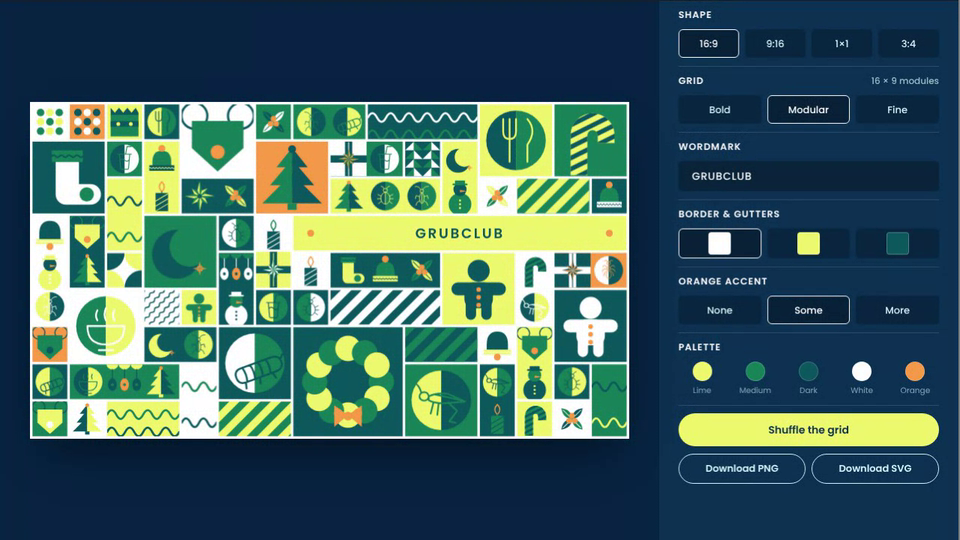
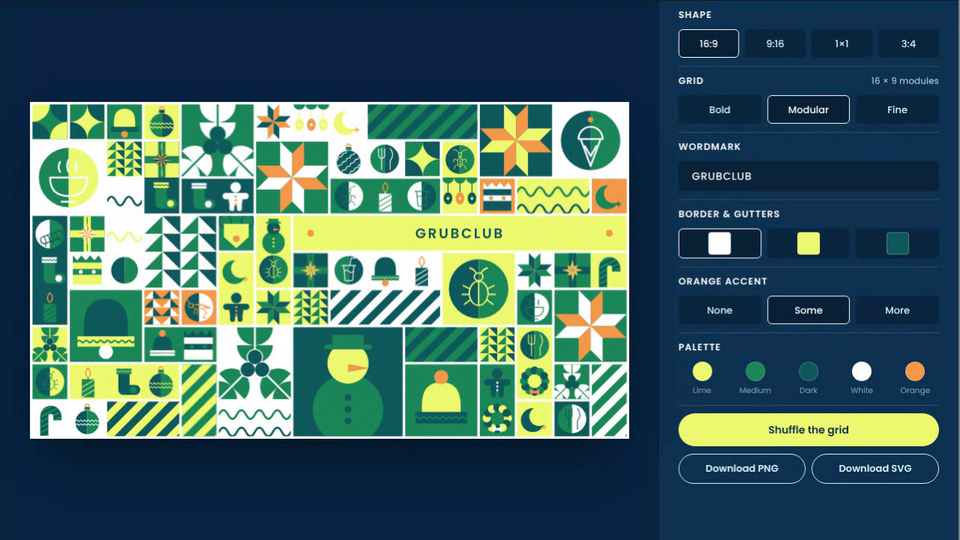
Grubclub Holiday Grid: exact pinwheel, triangle tree and holly (#193)
* Add Grubclub Holiday Grid app with homepage tile and clip

Claude-Session: https://claude.ai/code/session_01AHeBdyRCcuLFjvrTGpsW3f

* Grubclub Holiday Grid: use the Grubclub orange #F2994A

Claude-Session: https://claude.ai/code/session_01AHeBdyRCcuLFjvrTGpsW3f

* Grubclub Holiday Grid: illustrations closer to the references (two audit rounds)

Claude-Session: https://claude.ai/code/session_01AHeBdyRCcuLFjvrTGpsW3f

* Grubclub Holiday Grid: cup matched to reference, cone fixed, five new bug icons (cricket, grasshopper, mealworm, beetle, ant)

Claude-Session: https://claude.ai/code/session_01AHeBdyRCcuLFjvrTGpsW3f

* Grubclub Holiday Grid: exact pinwheel, triangle tree and holly blocks on square tiles, with contrast-checked colour sets

Claude-Session: https://claude.ai/code/session_01AHeBdyRCcuLFjvrTGpsW3f

* Grubclub Holiday Grid: re-record clip

Claude-Session: https://claude.ai/code/session_01AHeBdyRCcuLFjvrTGpsW3f

---------

Changed region(s): [[0.0312, 0.1778, 0.6562, 0.8296]]

diff --git a/grubclub-holiday/index.html b/grubclub-holiday/index.html
@@ -150,10 +150,8 @@ const ICON = {
   /* wrapped gift: full tile, ribbon cross, star bow */
   gift: (k) => `<rect x="0" y="0" width="100" height="100" fill="${k.a}"/><rect x="40" y="0" width="20" height="100" fill="${k.b}"/><rect x="0" y="40" width="100" height="20" fill="${k.b}"/>` +
     `<path d="M50 4 V38 M50 62 V96" stroke="${k.a}" stroke-width="2.4" stroke-linecap="round" fill="none"/>` + star8(50, 50, 30, k.bg, k.x, 1, .7),
-  star8: (k) => star8(50, 50, 48, k.a, k.b) + circ(50, 50, 7, k.bg),
   /* thick candy cane with diagonal stripes */
   cane: (k) => { const id = 'cm' + (uid++), d = 'M32 104 V42 A21 21 0 0 1 74 42 V54'; return `<mask id="${id}"><path d="${d}" stroke="#fff" stroke-width="26" fill="none"/></mask><path d="${d}" stroke="${k.a}" stroke-width="26" fill="none"/><g mask="url(#${id})">${Array.from({ length: 16 }, (_, i) => `<path d="M-10 ${i * 17 - 10} L110 ${i * 17 - 70}" stroke="${k.b}" stroke-width="7"/>`).join('')}</g>`; },
-  holly: (k) => leaf(50, 50, 48, 20, -45, k.a, k.bg) + leaf(50, 50, 48, 20, 45, k.b, k.bg) + leaf(50, 50, 48, 20, 135, k.a, k.bg) + leaf(50, 50, 48, 20, 225, k.b, k.bg) + circ(50, 40, 9, k.x) + circ(41, 56, 9, k.x) + circ(59, 56, 9, k.x),
   candle: (k) => `<rect x="30" y="42" width="40" height="58" fill="${k.a}"/><path d="M30 84 L70 60 M30 100 L70 76 M30 68 L70 44" stroke="${k.bg}" stroke-width="2.6" fill="none" clip-path="inset(0)"/>` +
     `<path d="M50 6 Q66 22 50 38 Q34 22 50 6Z" fill="none" stroke="${k.x}" stroke-width="3.6" stroke-linejoin="round"/>` + line('M50 38 V44', k.a, 3),
   stocking: (k) => `<path d="M30 22 H66 V60 H84 A16 16 0 0 1 84 92 H46 A16 16 0 0 1 30 76Z" fill="${k.a}"/><rect x="24" y="8" width="48" height="18" fill="${k.b}"/>` + zig(24, 72, 17, 3.4, 4, k.bg, 2.4) + circ(78, 76, 11, k.b),
@@ -164,12 +162,22 @@ const ICON = {
     poly([[50, 32], [72, 36], [50, 40]], k.x) + circ(50, 66, 3.4, k.bg) + circ(50, 78, 3.4, k.bg) + circ(50, 90, 3.4, k.bg),
   ginger: (k) => circ(50, 22, 17, k.a) + `<rect x="8" y="40" width="84" height="20" rx="10" fill="${k.a}"/><rect x="28" y="40" width="44" height="40" rx="14" fill="${k.a}"/><rect x="30" y="64" width="16" height="34" rx="8" fill="${k.a}"/><rect x="54" y="64" width="16" height="34" rx="8" fill="${k.a}"/>` +
     circ(50, 51, 3.6, k.x) + circ(50, 63, 3.6, k.x) + circ(50, 75, 3.6, k.x),
-  treeT: (k) => [[4, 34, 24], [22, 62, 34], [44, 90, 46]].map(([y0, y1, w]) => poly([[50, y0], [50 - w, y1], [50, y1]], k.a) + poly([[50, y0], [50, y1], [50 + w, y1]], k.b)).join('') + `<rect x="43" y="90" width="14" height="10" fill="${k.a}"/>` + circ(50, 6, 6, k.x),
   treeC: (k) => circ(50, 24, 17, k.a) + circ(50, 50, 24, k.b) + circ(50, 80, 28, k.a) + circ(50, 6, 5.5, k.x) + circ(42, 52, 3.6, k.bg) + circ(60, 46, 3.6, k.bg) + circ(38, 82, 4, k.bg) + circ(58, 84, 4, k.bg) + circ(70, 76, 4, k.x),
   wreath: (k) => Array.from({ length: 12 }, (_, i) => { const an = i / 12 * Math.PI * 2; return circ(50 + Math.cos(an) * 34, 50 + Math.sin(an) * 34, 13, i % 2 ? k.b : k.a); }).join('') + circ(50, 50, 20, k.bg) +
     circ(40, 82, 4.5, k.x) + circ(50, 85, 4.5, k.x) + circ(60, 82, 4.5, k.x) + poly([[50, 84], [36, 96], [36, 74]], k.x) + poly([[50, 84], [64, 96], [64, 74]], k.x),
   moon: (k) => circ(44, 54, 38, k.a) + circ(64, 42, 31, k.bg) + star8(80, 76, 11, k.x, k.x, 1, .5),
   scallop: (k) => [0, 1, 2].map((i) => { const cx = 16.65 + i * 33.3; return `<path d="M${i * 33.3} 0 A16.65 16.65 0 0 0 ${(i + 1) * 33.3} 0Z" fill="${k.a}"/>` + line(`M${cx} 16 V40`, k.b, 2.4) + `<ellipse cx="${cx}" cy="58" rx="12" ry="17" fill="${i % 2 ? k.x : k.b}"/>` + circ(cx, 58, 4, k.bg); }).join(''),
+  /* ---- exact geometric blocks (square, full bleed): pinwheel star, triangle tree, holly. Colours come from GEO below. ---- */
+  /* 3x3 quilt star: corner squares and edge notches are background, four arms of two parallelograms each, turned as a pinwheel */
+  pinwheel: (k) => [0, 90, 180, 270].map((d) => rot(d, 50, 50, poly([[100 / 3, 0], [50, 100 / 6], [50, 50], [100 / 3, 100 / 3]], k.p) + poly([[200 / 3, 0], [50, 100 / 6], [50, 50], [200 / 3, 100 / 3]], k.q))).join(''),
+  /* two columns of square cells cut by a diagonal; the dark and pale halves make stacked pointed triangles */
+  treeTri: (k) => { let o = ''; for (let rr = 0; rr < 4; rr++) for (let c = 0; c < 4; c++) { const x = c * 25, y = rr * 25; o += c % 2 === 0 ?
+    poly([[x, y], [x + 25, y], [x, y + 25]], k.p) + poly([[x + 25, y], [x, y + 25], [x + 25, y + 25]], k.d) :
+    poly([[x, y], [x + 25, y], [x + 25, y + 25]], k.m) + poly([[x, y], [x, y + 25], [x + 25, y + 25]], k.p); } return o; },
+  /* three berries, three stems at the top and the two lower diagonals, each with two stacked half-disc leaves */
+  holly: (k) => { const lv = '<path d="M25 0 A25 25 0 0 0 75 0Z"/><path d="M25 25 A25 25 0 0 0 75 25Z"/>'; const off = 20.7 /* outer half-disc sits in the tile corner on the diagonals */;
+    const motif = (d, o) => rot(d, 50, 50, `<g transform="translate(0 ${-o})"><g fill="${k.leaf}">${lv}</g><path d="M50 0 V${46 + o}" stroke="${k.bg}" stroke-width="2.6"/></g>`);
+    const bs = [[50, 41.5], [40, 58.8], [60, 58.8]]; return motif(0, 0) + motif(135, off) + motif(225, off) + bs.map(([x, y]) => circ(x, y, 11.4, k.bg)).join('') + bs.map(([x, y]) => circ(x, y, 10, k.berry)).join(''); },
   /* split circles with thin line-art food, like the burger / fries / shake / cone circles */
   lineBowl: (k) => splitCircle(k) + glyph(k, 'M24 50 H76 Q76 76 50 76 Q24 76 24 50Z M38 42 Q34 35 38 28 M50 42 Q46 34 50 25 M62 42 Q58 35 62 28 M40 84 H60'),
   lineCup: (k) => splitCircle(k) + glyph(k, 'M35 36 L38.5 77 Q39 80 42 80 H58 Q61 80 61.5 77 L65 36 M30 36 H70 M53 36 L57 14 H69 M37 53 Q43.5 46 50 53 T63 53'),
@@ -190,9 +198,25 @@ const ICON = {
   stripesDiag: (k) => Array.from({ length: 9 }, (_, i) => `<path d="M${-20 + i * 20} 120 L${60 + i * 20} -20" stroke="${k.a}" stroke-width="9"/>`).join(''),
   wavyDiag: (k) => rot(-45, 50, 50, [-20, 0, 20, 40, 60, 80, 100, 120].map((y) => zig(-30, 130, y, 5, 8, k.a, 3.4)).join(''))
 };
-const ICONS_FULL = ['ornament', 'reindeer', 'bell', 'hat', 'gift', 'star8', 'cane', 'holly', 'candle', 'stocking', 'elf', 'snowman', 'ginger', 'treeT', 'wreath', 'moon', 'scallop', 'lineBowl', 'lineCup', 'lineFork', 'lineCone', 'lineCricket', 'lineGrasshopper', 'lineMealworm', 'lineBeetle', 'lineAnt'];
+const LINES = ['lineBowl', 'lineCup', 'lineFork', 'lineCone', 'lineCricket', 'lineGrasshopper', 'lineMealworm', 'lineBeetle', 'lineAnt'];
+/* 'line' stands for one of the split-circle line icons; the three exact geometric blocks are weighted up */
+const ICONS_FULL = ['ornament', 'reindeer', 'bell', 'hat', 'gift', 'cane', 'candle', 'stocking', 'elf', 'snowman', 'ginger', 'wreath', 'moon', 'scallop', 'pinwheel', 'pinwheel', 'pinwheel', 'holly', 'holly', 'holly', 'treeTri', 'treeTri', 'treeTri', 'line', 'line', 'line', 'line'];
 const FILLERS = ['halfdisc', 'rings', 'quarters', 'dots', 'tris', 'stripesDiag', 'wavyDiag'];
 const BLEED = { tris: 1, quarters: 1, gift: 1, stripesDiag: 1, wavyDiag: 1, scallop: 1, elf: 1 };
+
+
+/* ---------- contrast: WCAG ratios, so the geometric blocks only use colour sets that read clearly ---------- */
+const lum = (h) => { const c = [1, 3, 5].map((i) => parseInt(h.slice(i, i + 2), 16) / 255).map((v) => v <= .03928 ? v / 12.92 : Math.pow((v + .055) / 1.055, 2.4)); return .2126 * c[0] + .7152 * c[1] + .0722 * c[2]; };
+const cr = (a, b) => { const x = lum(C[a]), y = lum(C[b]); return (Math.max(x, y) + .05) / (Math.min(x, y) + .05); };
+/* [bg, arm 1, arm 2] for the pinwheel: every arm >= 3.5:1 on the bg except the orange-on-green pairs; orange sets give the best arm-to-arm contrast */
+const GEO = {
+  pinwheel: (r) => { const hi = [['D', 'W', 'O'], ['W', 'D', 'O'], ['L', 'D', 'O'], ['D', 'L', 'O'], ['M', 'W', 'O']], lo = [['W', 'D', 'M'], ['L', 'D', 'M'], ['M', 'W', 'D'], ['M', 'L', 'D']];
+    const [bg, p, q] = pick(r, S.org && r() < (S.org === 2 ? .85 : .6) ? hi : lo); return { bg: C[bg], p: C[p], q: C[q] }; },
+  /* [pale, mid, dark]: pale triangles sit on dark (>=7:1) and on mid (>=4:1) */
+  treeTri: (r) => { const [p, m, d] = pick(r, [['W', 'M', 'D'], ['L', 'M', 'D'], ['W', 'D', 'M'], ['L', 'D', 'M']]); return { bg: C[p], p: C[p], m: C[m], d: C[d] }; },
+  /* [bg, leaf, berry]: leaf on bg >= 3.9:1, berries carry a ring of the bg colour so they stay crisp on the leaves */
+  holly: (r) => { const [bg, leaf, berry] = pick(r, [['W', 'M', 'D'], ['L', 'M', 'D'], ['M', 'W', 'D'], ['M', 'L', 'D'], ['D', 'W', 'O'], ['D', 'L', 'O']]); return { bg: C[bg], leaf: C[leaf], berry: C[berry] }; }
+};
 
 /* ---------- colour schemes per tile ---------- */
 const orangeBias = () => [0, .09, .22][S.org];
@@ -270,7 +294,7 @@ function build(anim) {
   const cw = (W - gap * (cols + 1)) / cols, ch = (H - gap * (rows + 1)) / rows;
   const tiles = layout(cols, rows, r);
   let out = '', n = 0, last = '';
-  const nextIcon = () => { let name, tries = 0; do { name = pick(r, ICONS_FULL); tries++; } while ((name === last || usedRecent.slice(-3).includes(name)) && tries < 12); last = name; usedRecent.push(name); return name; };
+  const nextIcon = (geo = true) => { let name, tries = 0; do { name = pick(r, ICONS_FULL); if (name === 'line') name = pick(r, LINES); tries++; } while ((name === last || usedRecent.slice(-3).includes(name) || (!geo && GEO[name])) && tries < 40); last = name; usedRecent.push(name); return name; };
   usedRecent = [];
   const iconSvg = (name, k, x, y, w, h, pad) => { const sl = BLEED[name]; const p = sl ? 0 : pad; return `<svg x="${f(x + p)}" y="${f(y + p)}" width="${f(w - p * 2)}" height="${f(h - p * 2)}" viewBox="0 0 100 100" preserveAspectRatio="${sl ? 'xMidYMid slice' : 'xMidYMid meet'}" overflow="${sl ? 'hidden' : 'visible'}">${ICON[name](k, r() < .5 ? 1 : 0)}</svg>`; };
   const clipId = (i) => `c${i}`;
@@ -286,9 +310,9 @@ function build(anim) {
       if (w > h * 3) { const rr = h * .1; body += circ(x + h * .5, y + h / 2, rr, C.O) + circ(x + w - h * .5, y + h / 2, rr, C.O); }
     } else if (t.kind === 'hero') {
       k = scheme(r, pick(r, ['W', 'M', 'D', 'L']));
-      const nm = pick(r, ['ornament', 'wreath', 'snowman', 'reindeer', 'treeT', 'gift', 'lineBowl', 'bell', 'star8', 'hat']);
-      usedRecent.push(nm);
-      body = iconSvg(nm, k, x, y, w, h, mn * .05);
+      const nm = pick(r, ['ornament', 'wreath', 'snowman', 'reindeer', 'gift', 'bell', 'hat', 'pinwheel', 'pinwheel', 'pinwheel', 'holly', 'holly', 'holly', 'treeTri', 'treeTri', 'treeTri']);
+      usedRecent.push(nm); if (GEO[nm]) k = GEO[nm](r);
+      body = iconSvg(nm, k, x, y, w, h, GEO[nm] ? 0 : mn * .05);
     } else if (t.kind === 'band' && (t.w !== t.h)) {
       k = scheme(r);
       const name = pick(r, t.w > t.h ? WIDE : ['stripes', 'zigzag']);
@@ -298,7 +322,7 @@ function build(anim) {
       const m = Math.round(Math.max(t.w, t.h) / Math.min(t.w, t.h));
       for (let j = 0; j < m; j++) {
         const kk = j ? { ...k, a: k.b === k.bg ? k.a : k.b, b: k.a } : k;
-        const nm = nextIcon();
+        const nm = nextIcon(false);
         body += t.w > t.h ? iconSvg(nm, kk, x + j * w / m, y, w / m, h, mn * .05) : iconSvg(nm, kk, x, y + j * h / m, w, h / m, mn * .05);
       }
     } else if (t.kind === 'filler') {
@@ -306,7 +330,8 @@ function build(anim) {
       body = iconSvg(pick(r, FILLERS), k, x, y, w, h, mn * .08);
     } else {
       k = scheme(r);
-      body = iconSvg(nextIcon(), k, x, y, w, h, mn * .05);
+      const nm = t.w >= 2 && t.w === t.h && r() < .6 ? pick(r, ['pinwheel', 'holly', 'treeTri']) : nextIcon(true); if (GEO[nm]) k = GEO[nm](r);
+      body = iconSvg(nm, k, x, y, w, h, GEO[nm] ? 0 : mn * .05);
     }
     const dly = f(((t.x / cols + t.y / rows) * .9 + r() * .15));
     out += `<g ${anim ? `class="t" style="--d:${dly}s"` : ''}><clipPath id="${clipId(i)}"><rect x="${f(x)}" y="${f(y)}" width="${f(w)}" height="${f(h)}"/></clipPath><rect x="${f(x)}" y="${f(y)}" width="${f(w)}" height="${f(h)}" fill="${k.bg}"/><g clip-path="url(#${clipId(i)})">${body}</g></g>`;
